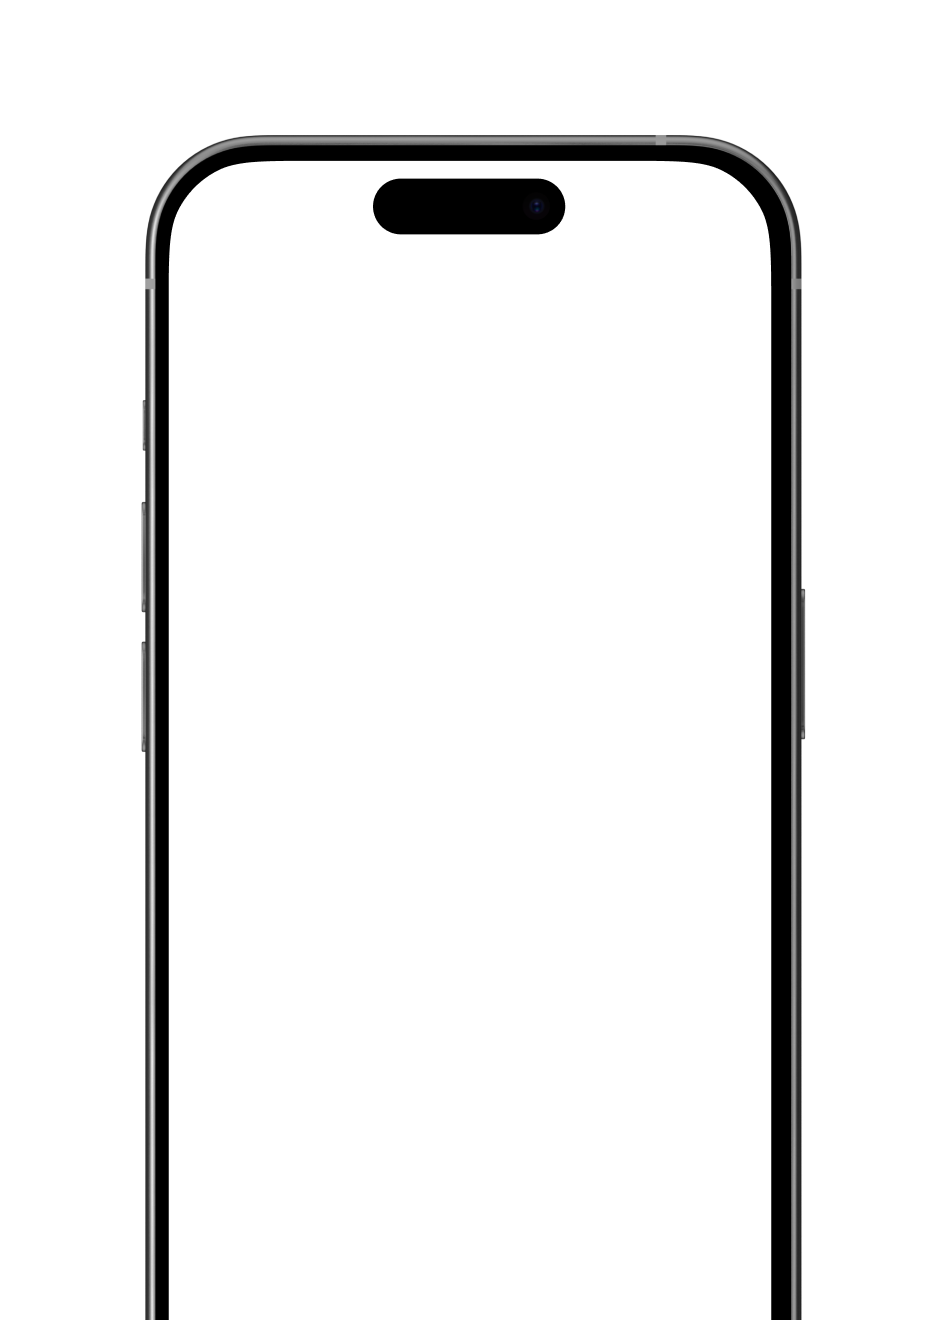
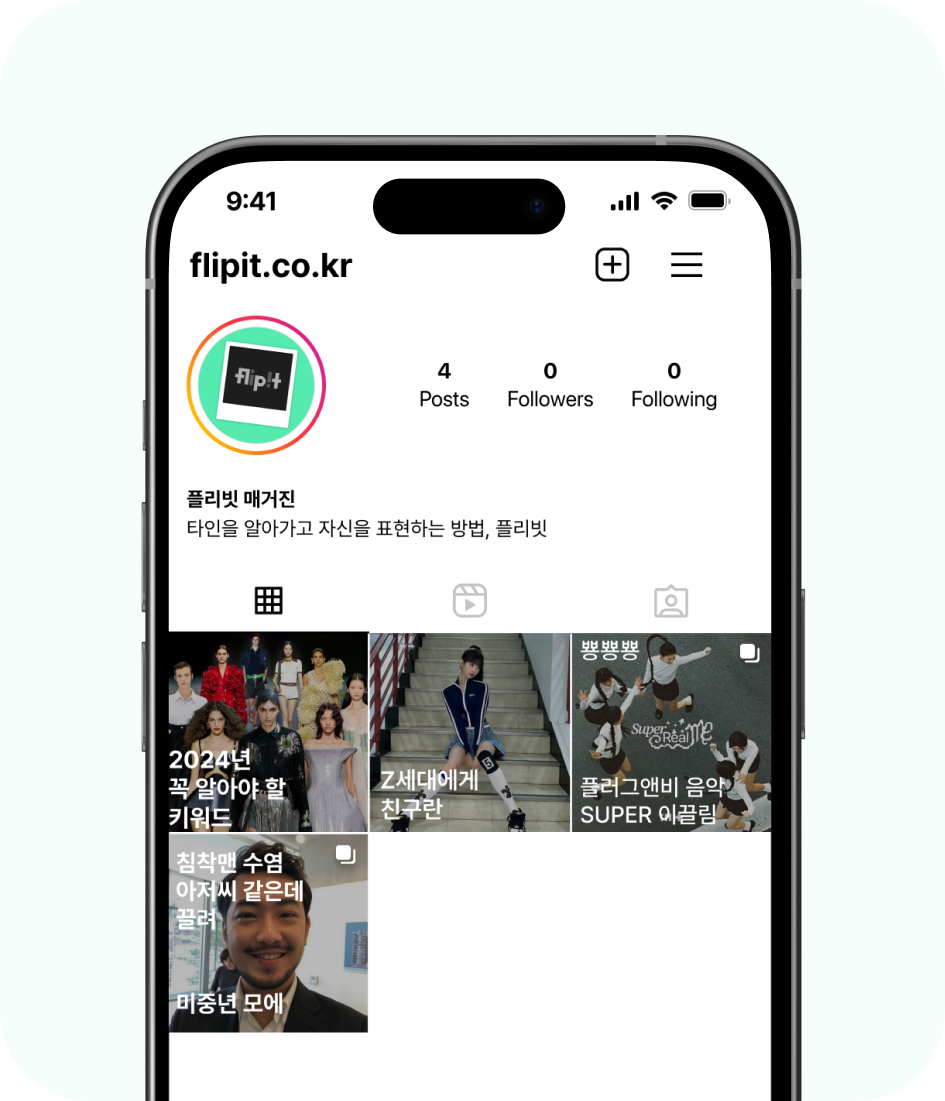
[feat] 인스타그램 이미지 추가

diff --git a/src/components/landing/Landing7.tsx b/src/components/landing/Landing7.tsx
@@ -1,0 +1,76 @@
+import Phone from '@/assets/landing/PhoneInsta.png'
+import { colors } from '@/styles/colors'
+import styled from 'styled-components'
+import { motion } from 'framer-motion'
+
+const Landing7 = () => {
+  const INSTA_URL = 'https://www.instagram.com/flipit.co.kr?igsh=aXpzcGRnaGVncHNq&utm_source=qr'
+
+  const Variants = {
+    offscreen: {
+      y: +50,
+      opacity: 0,
+    },
+    onscreen: {
+      y: 0,
+      opacity: 1,
+      transition: {
+        duration: 1.2,
+        delay: 0.1,
+      },
+    },
+  }
+  return (
+    <Container initial="offscreen" whileInView="onscreen" variants={Variants}>
+      <CategoryText>플리빗 매거진</CategoryText>
+      <TextWrapper>
+        <TitleText>{`플리빗 매거진을 구독하고\n서비스 OPEN 소식을\n받아 보세요.`}</TitleText>
+      </TextWrapper>
+      <ImageWrapper href={INSTA_URL}>
+        <PhoneImage src={Phone} initial="default" animate="onscreen" variants={Variants} />
+      </ImageWrapper>
+    </Container>
+  )
+}
+
+export default Landing7
+
+const Container = styled(motion.div)`
+  display: flex;
+  flex-direction: column;
+  width: 100%;
+  padding: 50px 30px;
+`
+const CategoryText = styled.h3`
+  color: ${colors.white};
+  font-family: Pretendard;
+  font-size: 16px;
+  font-weight: 600;
+  line-height: 24px;
+  letter-spacing: -0.8px;
+`
+const TextWrapper = styled.div`
+  gap: 6px;
+  margin: 30px 0 50px 0;
+`
+const TitleText = styled.h1`
+  color: ${colors.white};
+  font-family: Pretendard;
+  font-size: 30px;
+  font-weight: 600;
+  line-height: 45px;
+  letter-spacing: -1.5px;
+  white-space: pre-wrap;
+`
+const ImageWrapper = styled(motion.a)`
+  display: flex;
+  justify-content: center;
+  background-color: ${colors.white};
+  border-radius: 30px;
+  margin-bottom: 30px;
+  cursor: pointer;
+`
+const PhoneImage = styled(motion.img)`
+  width: 315px;
+  height: 367px;
+`
